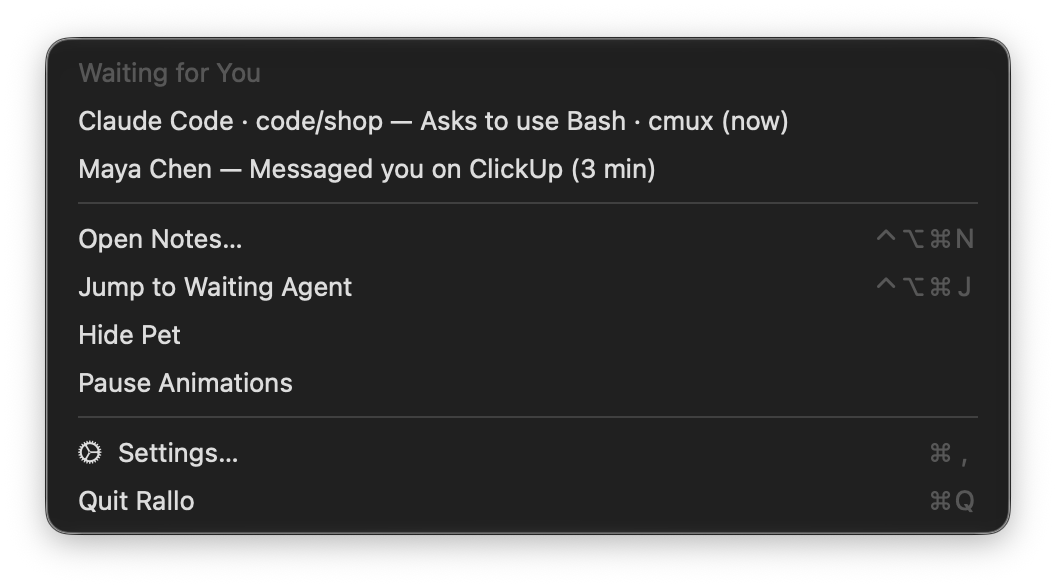
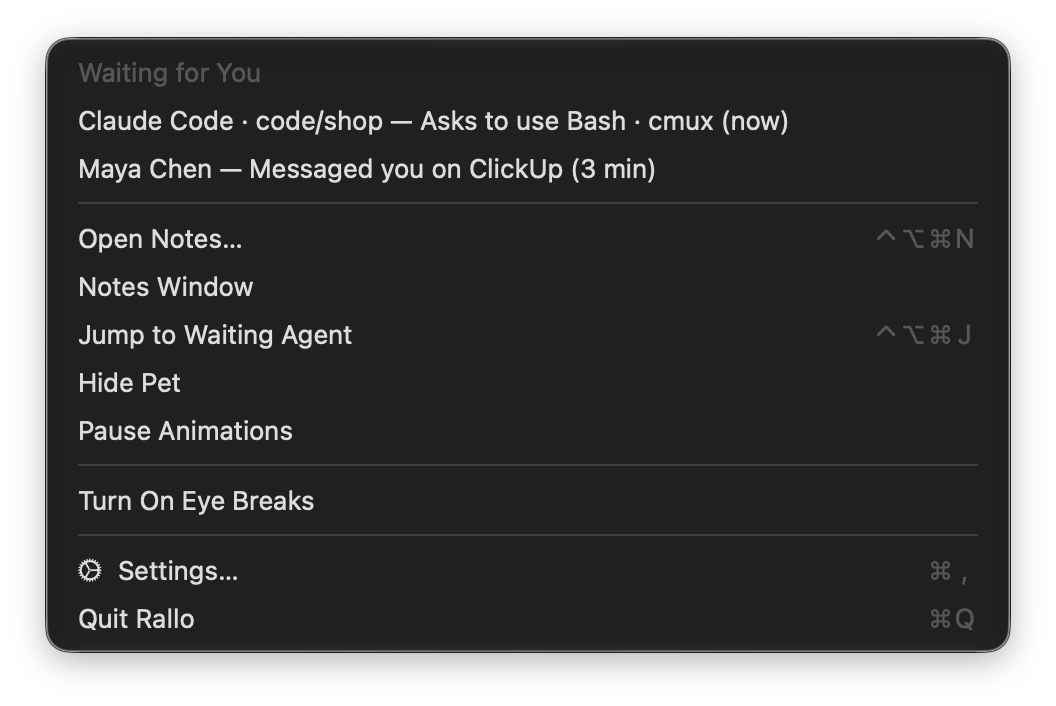
docs(readme): formatting shortcuts and fresh screenshots, Notes window included

diff --git a/README.md b/README.md
@@ -127,6 +127,7 @@ the same interface you do. `rallo --help` lists them all;
 |---|---|
 | **Notes panel** | Click the pet or press **⌃⌥⌘N**. Add, edit, complete, and snooze notes. **Remind Me** offers 20 minutes, 1 hour, tomorrow at 9:00, or **Custom…**, where you type a time ("fri 5pm") and see when it lands before you set it. A "Waiting for you" section lists agents and people who need you; swipe one sideways to dismiss it. Paste (⌘V) or drop screenshots into the note field, or drop them on a note; click a thumbnail for Quick Look, drag it out to share it. Start a new line with ⇧↩; a short first line (or text before ": ") becomes the note's title. |
 | **Notes window** | The expand button at the top right of the panel, **Notes Window** in the menu bar menu, or the Dock icon while it is open. A three-column window like Apple Notes: folders, views (All Notes, Due, Done, Deleted) and `#tags` on the left; the notes of the selection, grouped by date, in the middle, with a collapsed "N done" row, search (⌘F) across every folder, and Undo for done, delete and move; the note itself on the right, edited in place (saved as you type) with its reminder, images, and a Move chip. ⌘N starts a note in the current folder, ⇧⌘N a folder; drag a note onto a folder to file it; right-click a folder to rename or delete it (keep its notes in Notes, or delete them too). Rallo shows in the Dock only while this window is open. |
+| **Formatting** | In the Notes window, like Apple Notes: **⌘B** bold, **⌘I** italic, **⇧⌘X** strikethrough, **⌘E** code; **⇧⌘H** heading, **⇧⌘J** subheading, **⇧⌘B** body; **⇧⌘7** bulleted and **⇧⌘9** numbered list, **⇧⌘L** checklist (**⇧⌘U** or a click checks it), **⌘'** quote, **⇧⌘M** code block, **⌘K** link (⌘-click opens it), **⌘L** divider. All are in the Format menu and behind the **Aa** button. Return continues a list, Tab and ⇧Tab indent it. A note stays plain Markdown (`**bold**`, `- [ ] task`), so the CLI, agents and exports see the same text; the marks show, dimmed, only on the line you're editing. |
 | **Screenshot to a note** | Turn it on in Settings → General, then press **⌃⌥⌘S**, select part of the screen, and the capture waits in the notes panel: add a few words and press Return. Needs Screen Recording access (macOS asks the first time). |
 | **Menu bar** | The paw shows how many are waiting. The menu lists them, and jumps to one with **⌃⌥⌘J** (longest waiting first). |
 | **Settings (⌘,)** | Open at Login, the pet, the terminal command, notifications, agent hooks, ClickUp, voice typing, screenshots, export (with images) and import, updates (including the daily check, on by default). |
@@ -134,7 +135,14 @@ the same interface you do. `rallo --help` lists them all;
 | **Reminders** | Delivered by macOS Notification Center, even after Rallo quits. Up to 32 active at once. |
 
 <p align="center">
-  <img src="docs/images/menu.png" width="440" alt="The menu bar menu: two rows waiting for you, then Open Notes, Jump to Waiting Agent, Hide Pet, Pause Animations, Settings, and Quit">
+  <picture>
+    <source media="(prefers-color-scheme: dark)" srcset="docs/images/window-dark.png">
+    <img src="docs/images/window-light.png" width="820" alt="The Notes window: folders and views on the left, the notes in the middle, and a formatted note on the right with a heading, a checklist, bold, italic and code, a numbered list and a quote">
+  </picture>
+</p>
+
+<p align="center">
+  <img src="docs/images/menu.png" width="440" alt="The menu bar menu: two rows waiting for you, then Open Notes, Notes Window, Jump to Waiting Agent, Hide Pet, Pause Animations, Turn On Eye Breaks, Settings, and Quit">
 </p>
 
 ## Shortcuts, Siri and Services
